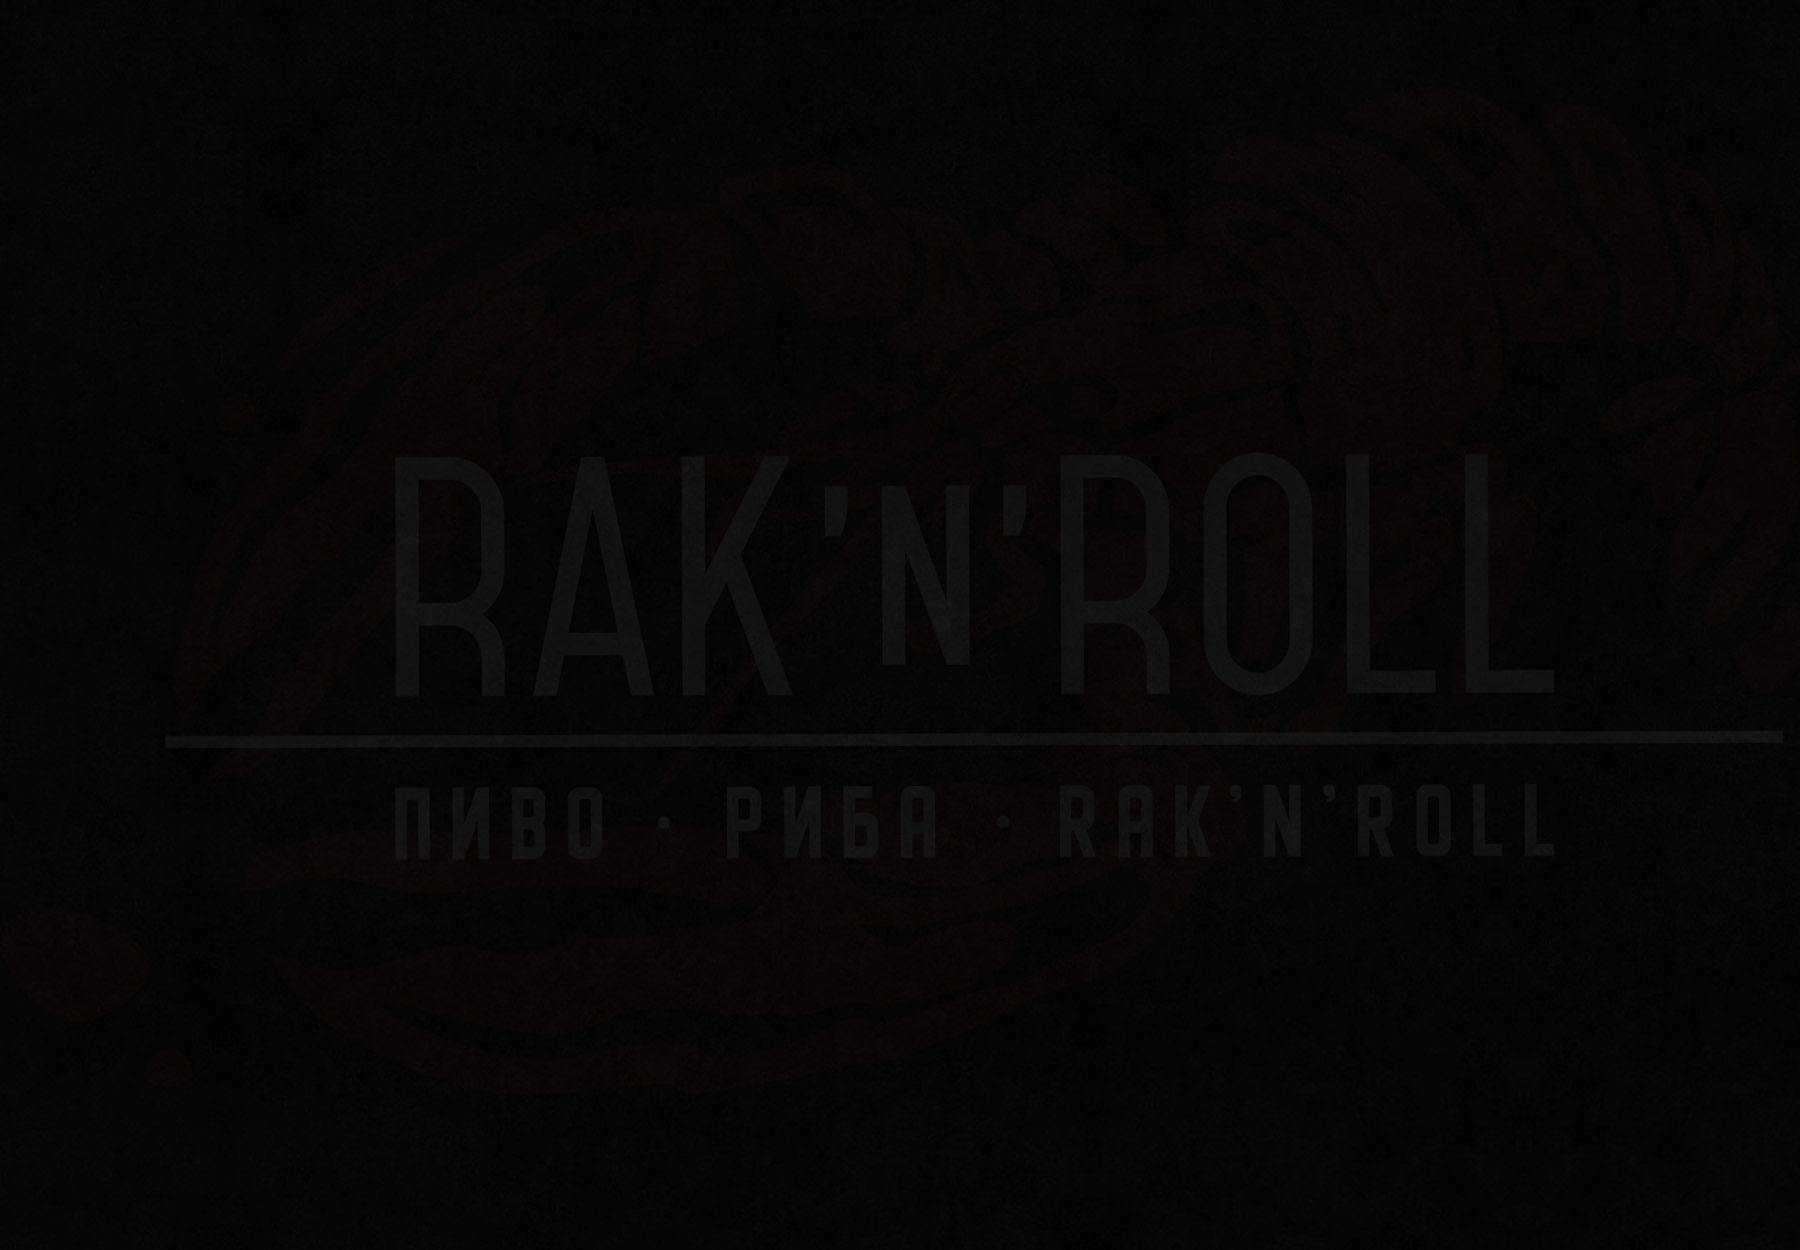
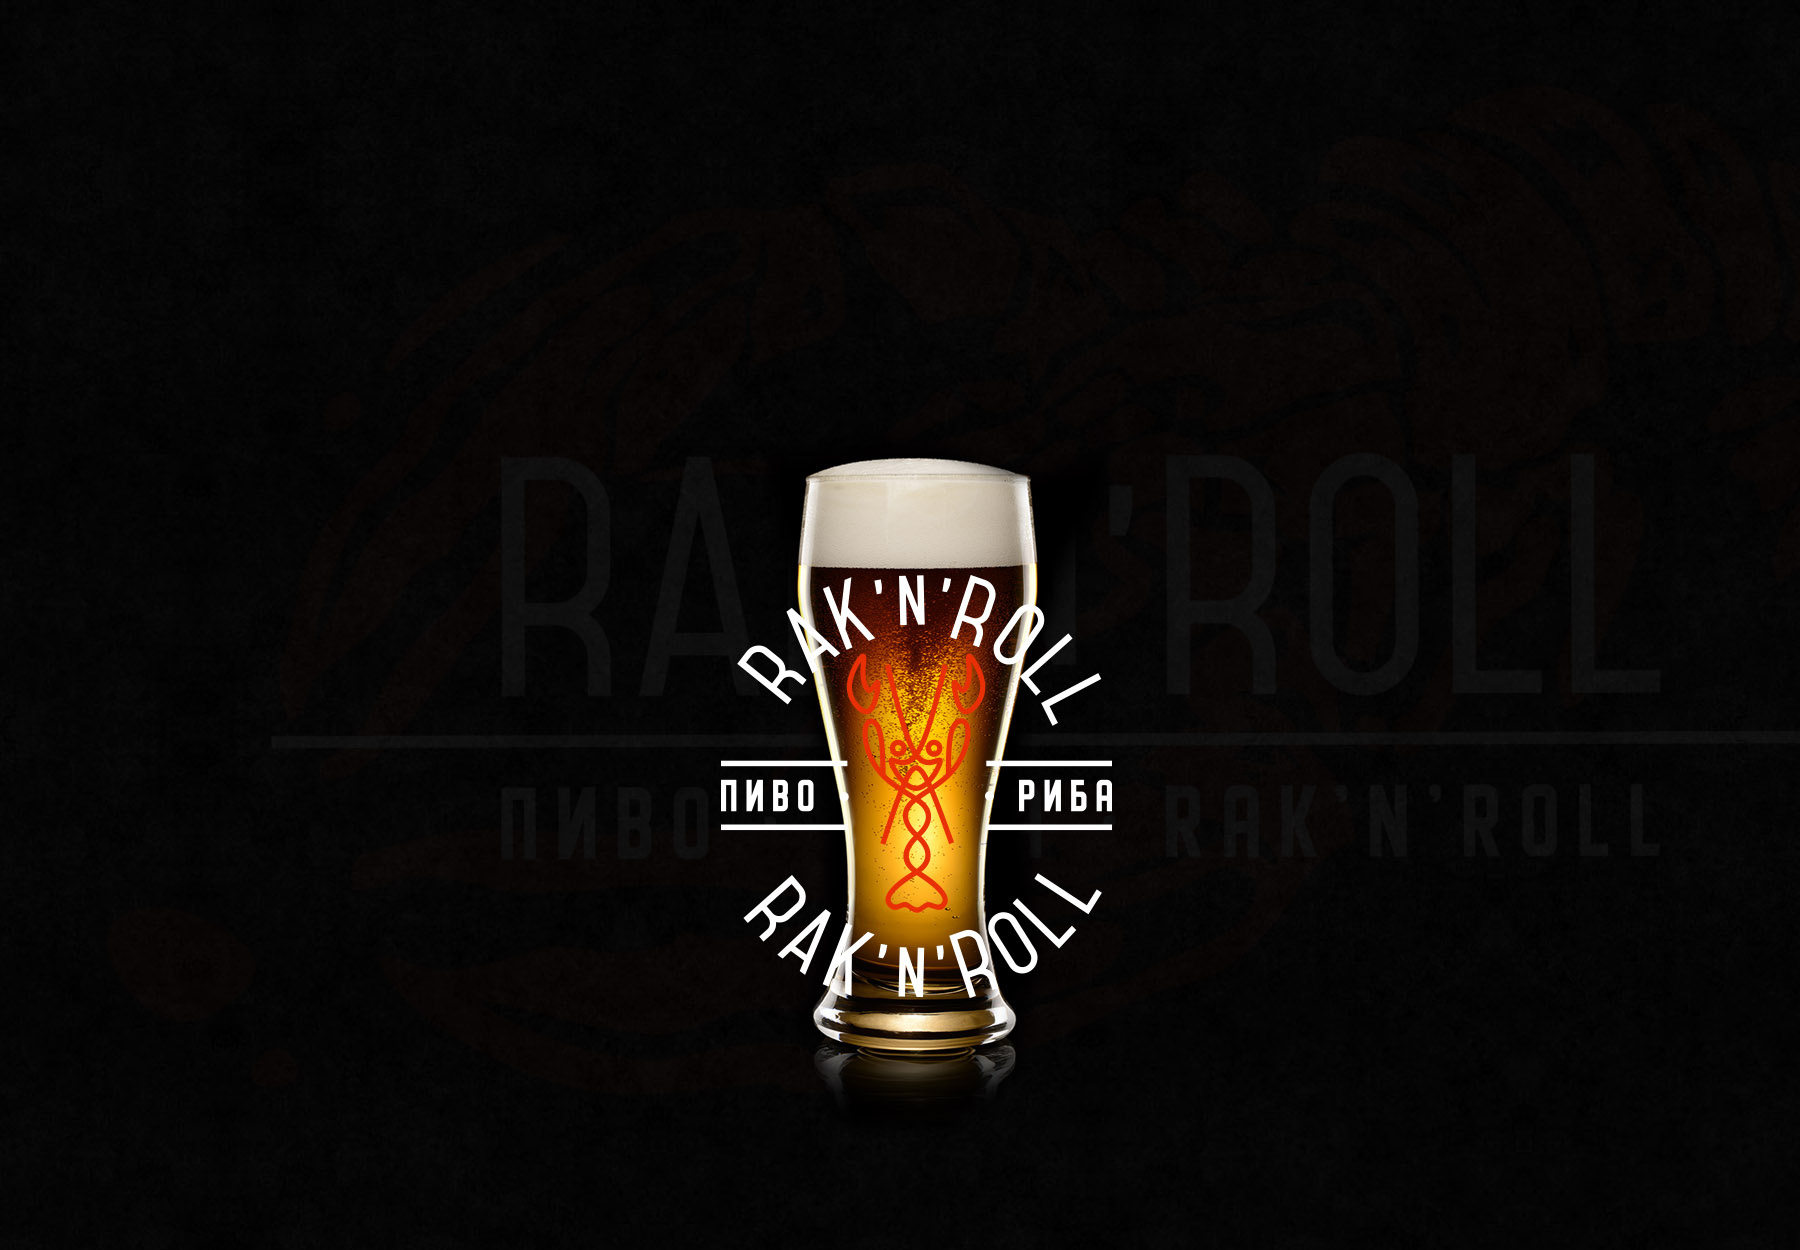
Test parallax header

Changed region(s): [[0.4044, 0.3432, 0.6222, 0.8736]]

diff --git a/assets/styles/responsive.css b/assets/styles/responsive.css
@@ -19,6 +19,16 @@
     font-size: 19px !important;
   }
 
+  .intro1_background_parallax_crayfish {
+    padding-top: 30vh !important;
+    width: 700px !important;
+  }
+
+  .intro1_background_parallax_roll {
+    width: 450px !important;
+    top: 18vh !important;
+  }
+
   .header_nav_navigation {
     min-width: 80% !important;
   }
@@ -254,6 +264,18 @@
 
   .header_nav_navigation {
     min-width: 85% !important;
+  }
+
+  .intro1_background_parallax_crayfish {
+    padding-top: 30vh !important;
+    width: 650px !important;
+    margin-left: -70px !important;
+  }
+
+  .intro1_background_parallax_roll {
+    width: 350px !important;
+    top: 18vh !important;
+    right: -30px !important;
   }
 
   .header_nav_navigation_menu_link {
@@ -545,6 +567,18 @@
     min-width: 13% !important;
   }
 
+  .intro1_background_parallax_crayfish {
+    padding-top: 30vh !important;
+    width: 600px !important;
+    margin-left: -55px !important;
+  }
+
+  .intro1_background_parallax_roll {
+    width: 330px !important;
+    top: 18vh !important;
+    right: -25px !important;
+  }
+
   .header_logo_link {
     width: 68% !important;
   }
@@ -824,6 +858,18 @@
     text-align: center !important;
   }
 
+  .intro1_background_parallax_crayfish {
+    padding-top: 45vh !important;
+    width: 550px !important;
+    margin-left: -70px !important;
+  }
+
+  .intro1_background_parallax_roll {
+    width: 330px !important;
+    top: 18vh !important;
+    right: -35px !important;
+  }
+
   .cartModal_products_section {
     margin-bottom: 3vh !important;;
   }
@@ -968,6 +1014,18 @@
 
   .mobileHeader-language {
     width: 100% !important;
+  }
+
+  .intro1_background_parallax_crayfish {
+    padding-top: 50vh !important;
+    width: 400px !important;
+    margin-left: -100px !important;
+  }
+
+  .intro1_background_parallax_roll {
+    width: 220px !important;
+    top: 30vh !important;
+    right: -50px !important;
   }
 
   .mobileHeader_phone-and-language .v-text-field .v-select__selection--comma {

diff --git a/components/Intro.vue b/components/Intro.vue
@@ -3,11 +3,11 @@
     <v-img
       position="center"
       class="width-100 height-100"
-      :src="require('~/assets/images/test-new.jpg')"
-      :lazy-src="require('~/assets/images/test-new.jpg')">
+      :src="require('~/assets/images/testbacktest (1).png')"
+      :lazy-src="require('~/assets/images/testbacktest (1).png')">
       <kinesis-container
         event="move">
-        <div class="d-flex justify-lg-space-between">
+        <div class="position-relative">
           <div class="intro1_background_parallax_crayfish white--text">
             <kinesis-element
               tag="div"
@@ -44,9 +44,6 @@
 
 <script>
 import {KinesisContainer, KinesisElement} from 'vue-kinesis'
-import AOS from 'aos'
-import 'aos/dist/aos.css'
-
 export default {
   name: "Intro",
   data() {
@@ -64,13 +61,14 @@ export default {
 <style scoped>
 .intro1_background_parallax_crayfish {
   padding-top: 22vh;
-  margin-left: -50px;
+  margin-left: -100px;
   width: 800px;
 }
 .intro1_background_parallax_roll {
+  position: absolute;
+  top: 22vh;
   width: 500px;
-  padding-top: 22vh;
-  margin-right: -50px;
+  right: -50px;
 }
 
 .intro1_background {
